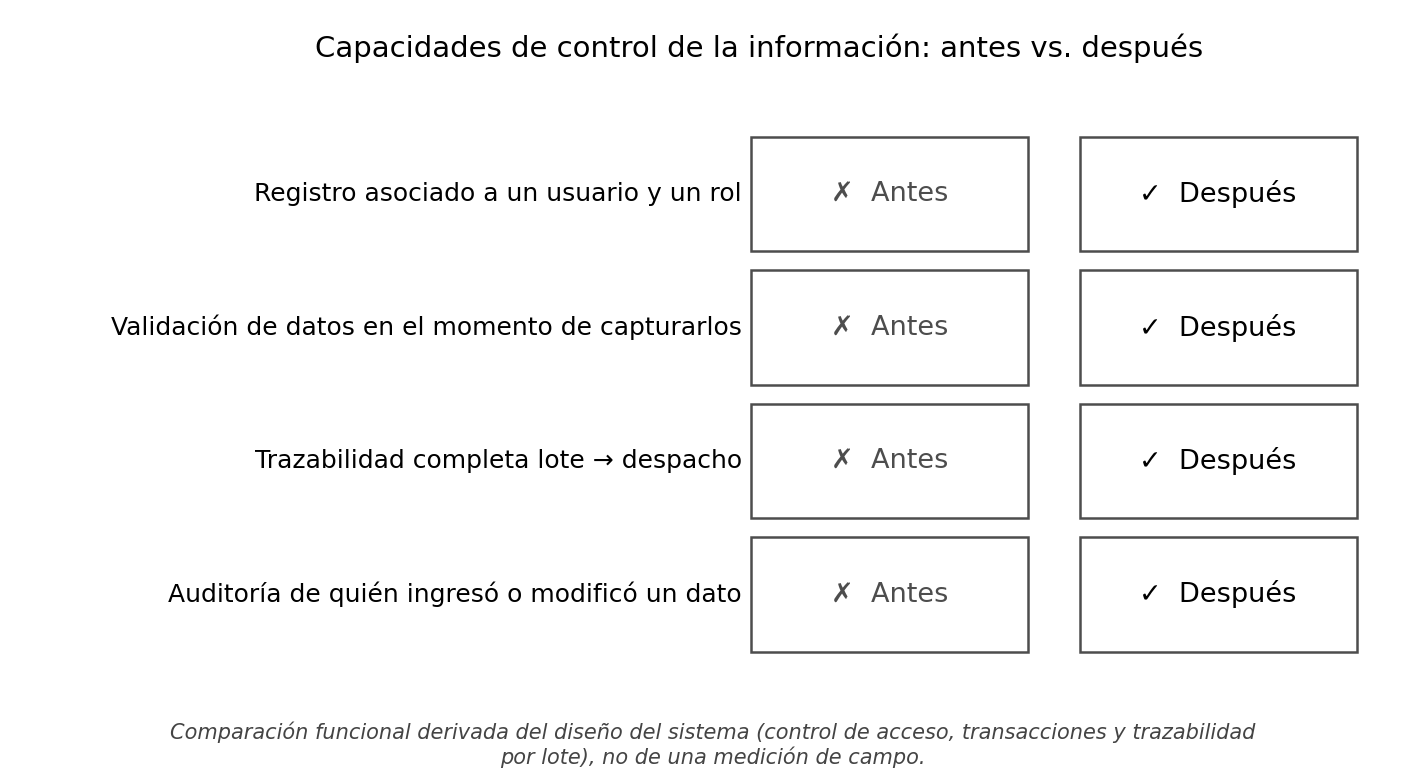
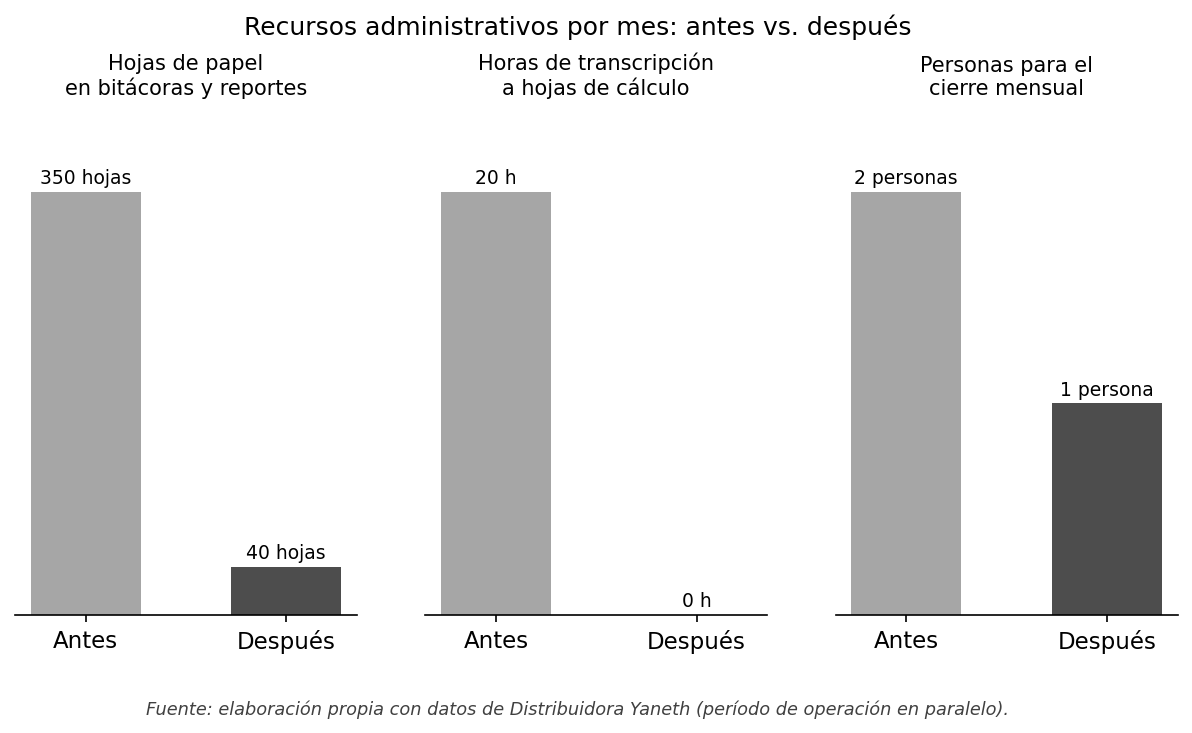
docs: regenera graficas del Cap. VI con los datos propios de la empresa
Agrega graficas_resultados.py (fuente de las 3 graficas antes/despues) y las PNG regeneradas.

diff --git a/diagramas/resultados/graficas_resultados.py b/diagramas/resultados/graficas_resultados.py
@@ -1,0 +1,93 @@
+"""Graficas del Capitulo VI (Analisis de Resultados) con los datos de Distribuidora Yaneth.
+Uso: python graficas_resultados.py   (genera los PNG en esta misma carpeta)
+
+Los valores son los tiempos y recursos estimados por el personal de la empresa durante el
+periodo de operacion en paralelo (bitacora manual vs. sistema); deben coincidir con las tablas
+de la seccion 6.3 de la tesis.
+"""
+import os
+
+import matplotlib
+
+matplotlib.use('Agg')
+import matplotlib.pyplot as plt  # noqa: E402
+
+HERE = os.path.dirname(os.path.abspath(__file__))
+DARK, LIGHT = '#4D4D4D', '#A6A6A6'
+FUENTE = 'Fuente: elaboración propia con datos de Distribuidora Yaneth (período de operación en paralelo).'
+plt.rcParams.update({'font.family': 'DejaVu Sans', 'font.size': 11, 'axes.spines.top': False, 'axes.spines.right': False})
+
+# (tarea, antes en minutos, despues en minutos) — por operacion
+TAREAS = [
+    ('Recepción y pesaje\nde un lote (≈ 40 cajas)', 45, 25),
+    ('Medición de maduración\ny decisión de proceso', 15, 3),
+    ('Rendimiento y mermas\nal cierre de jornada', 60, 5),
+    ('Asignación de ruta\ny despacho', 30, 10),
+    ('Consulta del historial\nde un lote', 120, 1),
+]
+REPORTE_MENSUAL = ('Consolidación del\nreporte mensual', 960, 15)
+
+
+def save(fig, name):
+    fig.savefig(os.path.join(HERE, name), dpi=150, bbox_inches='tight', facecolor='white')
+    plt.close(fig)
+    print('ok', name)
+
+
+# 1) Tiempo por tarea: antes vs despues
+fig, ax = plt.subplots(figsize=(11.5, 5.4))
+x = range(len(TAREAS))
+w = 0.38
+antes = [t[1] for t in TAREAS]
+despues = [t[2] for t in TAREAS]
+b1 = ax.bar([i - w / 2 for i in x], antes, w, color=LIGHT, label='Antes (registro manual)')
+b2 = ax.bar([i + w / 2 for i in x], despues, w, color=DARK, label='Después (sistema)')
+for bars in (b1, b2):
+    for b in bars:
+        ax.annotate(f'{int(b.get_height())} min', (b.get_x() + b.get_width() / 2, b.get_height()), ha='center', va='bottom',
+                    fontsize=9, xytext=(0, 2), textcoords='offset points')
+ax.set_xticks(list(x))
+ax.set_xticklabels([t[0] for t in TAREAS], fontsize=9.5)
+ax.set_ylabel('Minutos por operación')
+ax.set_title('Tiempo de las tareas operativas: antes vs. después', fontsize=12)
+ax.legend(frameon=False)
+ax.yaxis.grid(True, color='#E6E6E6')
+ax.set_axisbelow(True)
+fig.text(0.5, -0.04, FUENTE, ha='center', fontsize=8.5, style='italic', color='#404040')
+save(fig, 'resultados_tiempos_antes_despues.png')
+
+# 2) Reduccion porcentual del tiempo por tarea
+todas = TAREAS + [REPORTE_MENSUAL]
+red = [round((a - d) / a * 100) for _, a, d in todas]
+orden = sorted(range(len(todas)), key=lambda i: red[i])
+fig, ax = plt.subplots(figsize=(9, 5.2))
+bars = ax.barh([todas[i][0].replace('\n', ' ') for i in orden], [red[i] for i in orden], color=DARK, height=0.55)
+for b, i in zip(bars, orden):
+    ax.annotate(f'−{red[i]} %', (b.get_width(), b.get_y() + b.get_height() / 2), va='center', ha='left', fontsize=9,
+                xytext=(4, 0), textcoords='offset points')
+ax.set_xlim(0, 110)
+ax.set_xlabel('Reducción del tiempo respecto al registro manual (%)')
+ax.set_title('Reducción del tiempo por tarea con el sistema', fontsize=12)
+ax.xaxis.grid(True, color='#E6E6E6')
+ax.set_axisbelow(True)
+ax.tick_params(axis='y', labelsize=9)
+fig.text(0.5, -0.04, FUENTE, ha='center', fontsize=8.5, style='italic', color='#404040')
+save(fig, 'resultados_reduccion_pct.png')
+
+# 3) Recursos administrativos por mes
+RECURSOS = [('Hojas de papel\nen bitácoras y reportes', 350, 40, 'hojas'),
+            ('Horas de transcripción\na hojas de cálculo', 20, 0, 'h'),
+            ('Personas para el\ncierre mensual', 2, 1, ('persona', 'personas'))]
+fig, axes = plt.subplots(1, 3, figsize=(10, 4.4))
+for ax, (name, a, d, unit) in zip(axes, RECURSOS):
+    bars = ax.bar(['Antes', 'Después'], [a, d], color=[LIGHT, DARK], width=0.55)
+    for b in bars:
+        ax.annotate(f'{int(b.get_height())} ' + (unit if isinstance(unit, str) else unit[int(b.get_height()) != 1]), (b.get_x() + b.get_width() / 2, b.get_height()), ha='center', va='bottom',
+                    fontsize=9, xytext=(0, 2), textcoords='offset points')
+    ax.set_title(name, fontsize=10)
+    ax.set_ylim(0, a * 1.2)
+    ax.set_yticks([])
+    ax.spines['left'].set_visible(False)
+fig.suptitle('Recursos administrativos por mes: antes vs. después', fontsize=12, y=1.02)
+fig.text(0.5, -0.04, FUENTE, ha='center', fontsize=8.5, style='italic', color='#404040')
+save(fig, 'resultados_insumos_antes_despues.png')
